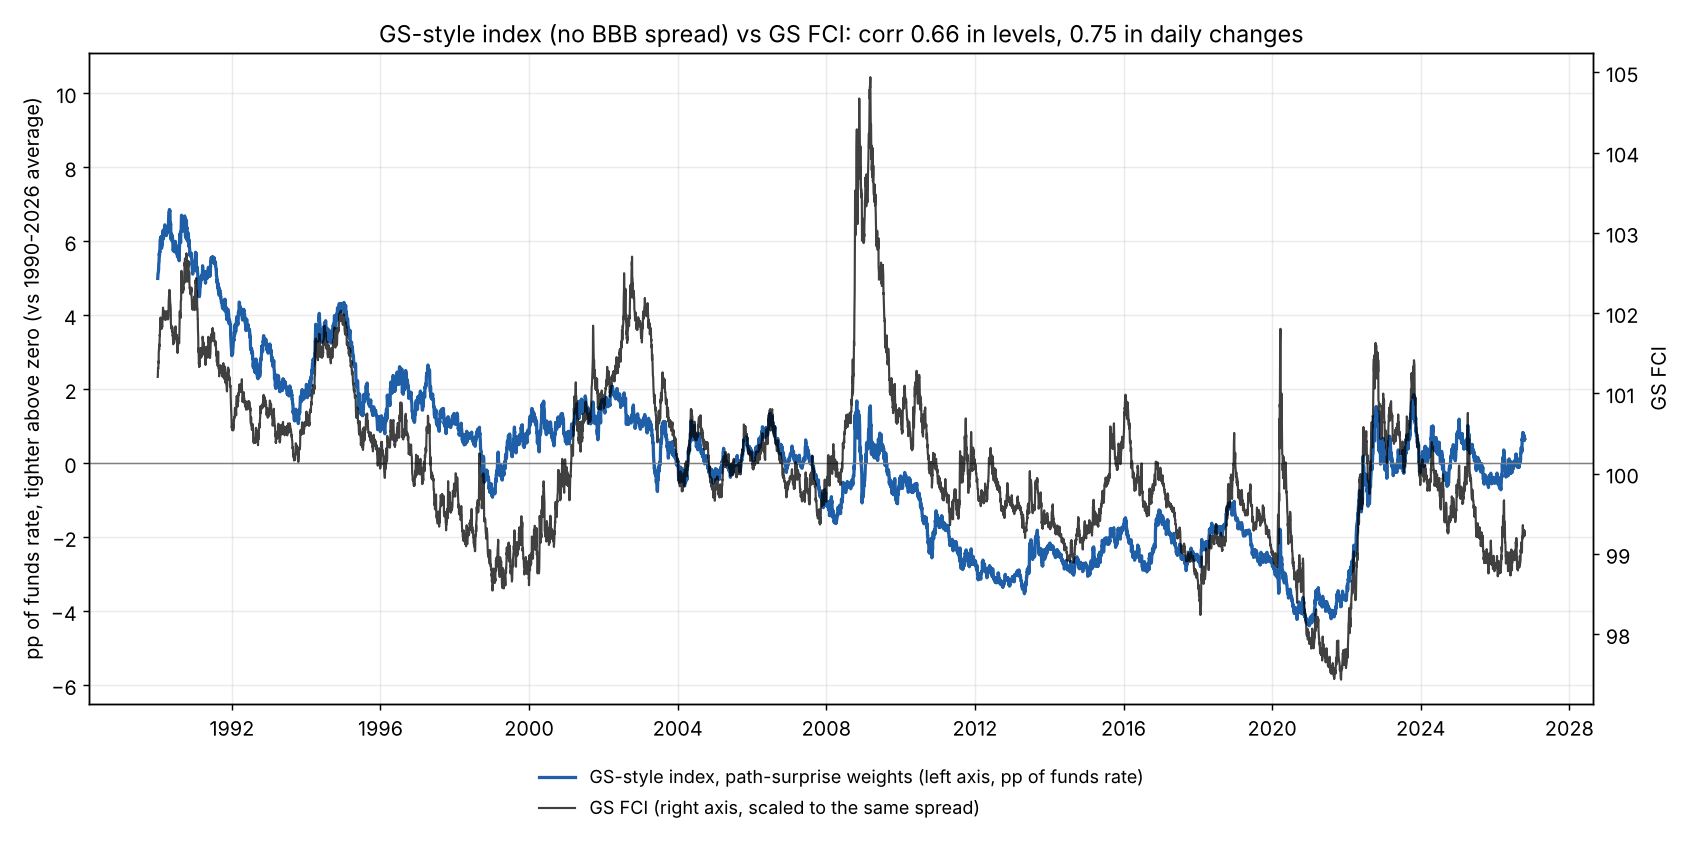
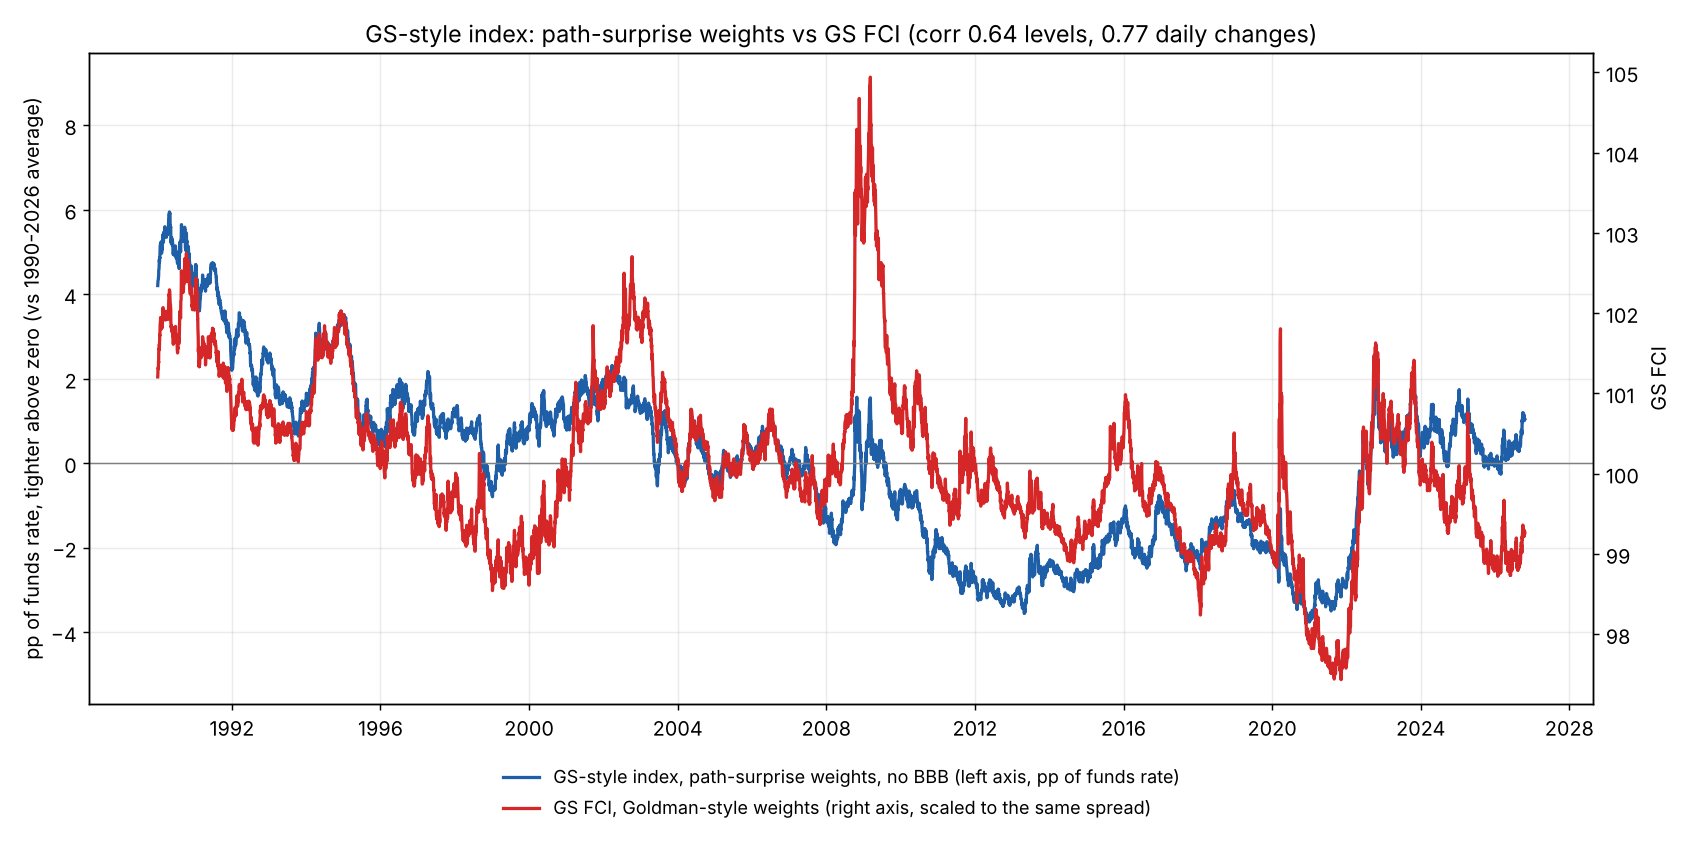
Charts: MS-style vs MS FRB/US index; GS-style vs GS FCI, forward-regression weights
Claude-Session: https://claude.ai/code/session_019kTrQ64J9YbGMCvioBoMNo

diff --git a/experimental/path_fci/path_fci_charts.py b/experimental/path_fci/path_fci_charts.py
@@ -1,7 +1,7 @@
 """
 EXPERIMENTAL add-on (path_fci.py unchanged): two clean charts, one for the MS-style index and one for the GS-style index, each against the GS FCI.
 
-Path-surprise index = rescaled reverse-regression weights (path_fci_reverse_index.py), BBB spread excluded:
+Path-surprise index = forward-regression (GLS) weights, each variable regressed individually on the path surprise (path_fci.py), BBB spread excluded:
     MS-style: 10-year, ln CAPE, real dollar, real oil        GS-style: fed funds, 10-year, ln CAPE, dollar
 The right axis (GS FCI) is scaled so that its standard deviation and mean line up with the index on the left (same zero line, same spread), so the two
 move together on the page exactly as far as their correlation says.
@@ -33,32 +33,39 @@ def main():
     fr = {"10-yr": sens.rg10, "Equities (ln CAPE)": -sens.req, "Dollar (ln real)": sens.fpxr, "Oil (ln real)": sens.poil}
     lev = lambda w, names: sum(w[n] * P.VARS[n][1] * (X[P.VARS[n][0]] - X[P.VARS[n][0]].mean()) for n in names)
     gs = G.fci.reindex(X.index)
+    req = float(pd.read_csv(os.path.join(ROOT, "experimental", "ms_fci", "frbus_sensitivities.csv"), index_col=0).loc["req", "unit_size"])
+    ms_frbus = P.L.level(X, sens.to_dict(), req).Total      # the MS-style index as built in experimental/ms_fci: five variables, FRB/US q4 weights
     import matplotlib
     matplotlib.use("Agg")
     import matplotlib.pyplot as plt
     for key, names in SETS.items():
-        r = sm.OLS(ev.path, sm.add_constant(dx[names])).fit(cov_type="HC1")
-        w = r.params[names] / float((r.params[names] * B.loc[names, "b"].astype(float)).sum())
+        w = P.weights(B, names)                              # forward regressions, one variable at a time against the path surprise (GLS weights)
         idx = lev(w, names)
-        print(f"\n[{key.upper()}-style] weights (pp of path-rate per unit): " + ", ".join(f"{n} {w[n]:+.3f}" for n in names))
-        print(f"  correlation with GS FCI: levels {np.corrcoef(idx, gs)[0, 1]:.2f}, daily changes {idx.diff().corr(gs.diff()):.2f}; latest {idx.iloc[-1]:+.2f} pp; "
-              f"2012-12 {idx.loc[:'2012-12-31'].iloc[-1]:+.1f}, 2021-12 {idx.loc[:'2021-12-31'].iloc[-1]:+.1f}, 2009-03 {idx.loc[:'2009-03-31'].iloc[-1]:+.1f}")
+        other = ms_frbus if key == "ms" else gs
+        print(f"\n[{key.upper()}-style] path weights (pp of path-rate per unit): " + ", ".join(f"{n} {w[n]:+.3f}" for n in names))
+        print(f"  correlation with {'MS FRB/US index' if key == 'ms' else 'GS FCI'}: levels {np.corrcoef(idx, other)[0, 1]:.2f}, daily changes {idx.diff().corr(other.diff()):.2f}; "
+              f"latest {idx.iloc[-1]:+.2f} pp" + (f" vs {ms_frbus.iloc[-1]:+.2f}" if key == "ms" else ""))
         fig, ax = plt.subplots(figsize=(13, 6.5))
-        ax.plot(idx.index, idx, color="#1f5fa8", lw=1.8, label=f"{key.upper()}-style index, path-surprise weights (left axis, pp of funds rate)")
+        ax.plot(idx.index, idx, color="#1f5fa8", lw=1.8, label=f"{key.upper()}-style index, path-surprise weights, no BBB (left axis, pp of funds rate)")
         ax.axhline(0, color="gray", lw=0.8)
         ax.set_ylabel("pp of funds rate, tighter above zero (vs 1990-2026 average)", fontsize=11)
-        k = gs.std() / idx.std()
-        gl = (gs - gs.mean()) / k                       # GS FCI in left-axis units
-        allv = pd.concat([idx, gl])
-        pad = 0.04 * (allv.max() - allv.min())
-        lo, hi = allv.min() - pad, allv.max() + pad
-        ax.set_ylim(lo, hi)
-        b = ax.twinx(); b.plot(gs.index, gs, color="black", lw=1.2, alpha=0.75, label="GS FCI (right axis, scaled to the same spread)")
-        b.set_ylim(gs.mean() + k * lo, gs.mean() + k * hi); b.set_ylabel("GS FCI", fontsize=11)
-        h1, l1 = ax.get_legend_handles_labels(); h2, l2 = b.get_legend_handles_labels()
-        ax.legend(h1 + h2, l1 + l2, loc="upper center", bbox_to_anchor=(0.5, -0.07), ncol=1, fontsize=10, frameon=False)
-        ax.set_title(f"{key.upper()}-style index (no BBB spread) vs GS FCI: corr {np.corrcoef(idx, gs)[0, 1]:.2f} in levels, {idx.diff().corr(gs.diff()):.2f} in daily changes", fontsize=13)
-        ax.grid(alpha=0.25); ax.tick_params(labelsize=11); b.tick_params(labelsize=11)
+        if key == "ms":
+            ax.plot(ms_frbus.index, ms_frbus, color="#d62728", lw=1.8, label="MS-style index, FRB/US weights, all five variables (left axis)")
+            ax.set_ylim(min(idx.min(), ms_frbus.min()) - 0.3, max(idx.max(), ms_frbus.max()) + 0.3)
+            ax.legend(loc="upper center", bbox_to_anchor=(0.5, -0.07), ncol=1, fontsize=10, frameon=False)
+            title = f"MS-style index: path-surprise weights vs FRB/US weights (corr {np.corrcoef(idx, ms_frbus)[0, 1]:.2f} levels, {idx.diff().corr(ms_frbus.diff()):.2f} daily changes)"
+        else:
+            k = gs.std() / idx.std()
+            gl = (gs - gs.mean()) / k
+            allv = pd.concat([idx, gl]); pad = 0.04 * (allv.max() - allv.min())
+            lo, hi = allv.min() - pad, allv.max() + pad
+            ax.set_ylim(lo, hi)
+            b = ax.twinx(); b.plot(gs.index, gs, color="#d62728", lw=1.8, label="GS FCI, Goldman-style weights (right axis, scaled to the same spread)")
+            b.set_ylim(gs.mean() + k * lo, gs.mean() + k * hi); b.set_ylabel("GS FCI", fontsize=11); b.tick_params(labelsize=11)
+            h1, l1 = ax.get_legend_handles_labels(); h2, l2 = b.get_legend_handles_labels()
+            ax.legend(h1 + h2, l1 + l2, loc="upper center", bbox_to_anchor=(0.5, -0.07), ncol=1, fontsize=10, frameon=False)
+            title = f"GS-style index: path-surprise weights vs GS FCI (corr {np.corrcoef(idx, gs)[0, 1]:.2f} levels, {idx.diff().corr(gs.diff()):.2f} daily changes)"
+        ax.set_title(title, fontsize=13); ax.grid(alpha=0.25); ax.tick_params(labelsize=11)
         fig.tight_layout(); fig.savefig(os.path.join(HERE, f"path_fci_chart_{key}_{a.sample}.png"), dpi=130)
 
 
